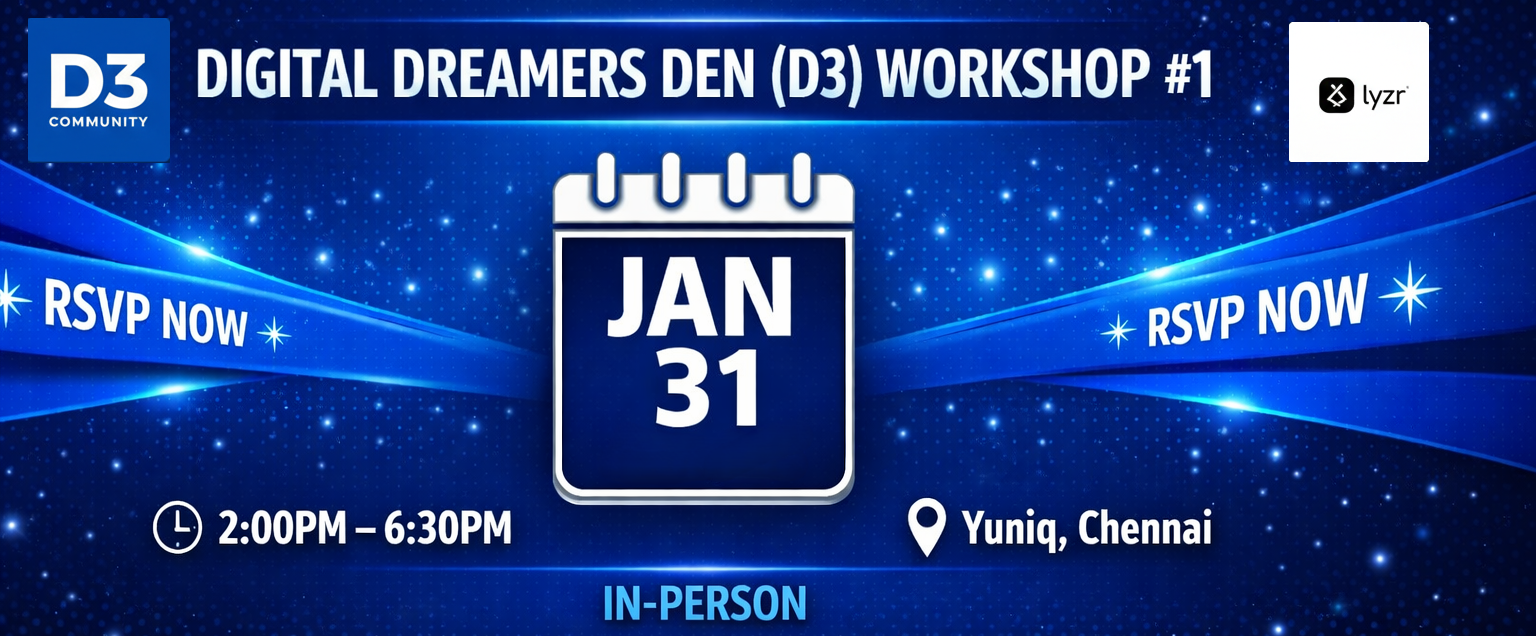
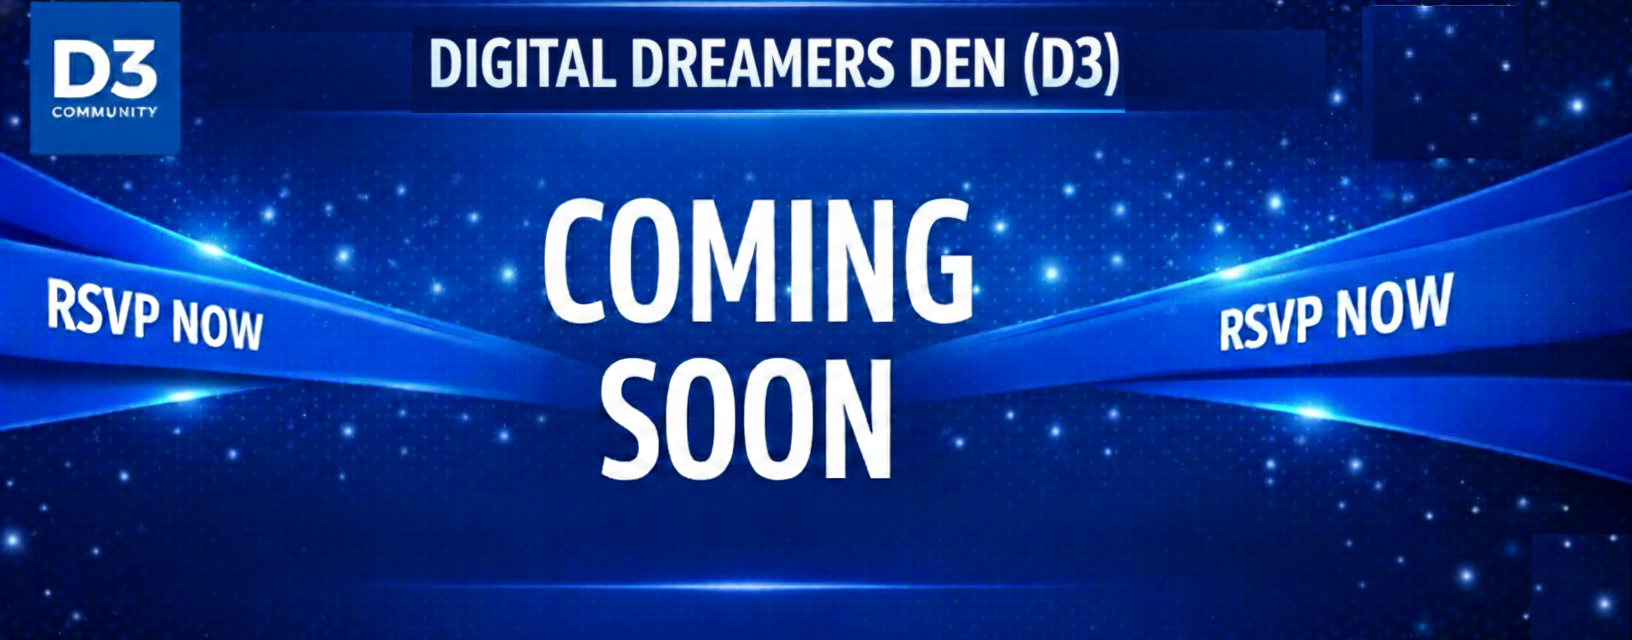
Update RSVP URL for Digital Dreamers Den workshop and replace coming soon image

diff --git a/app/data/events.ts b/app/data/events.ts
@@ -95,7 +95,7 @@ const eventsData: EventsData = {
       title: "Digital Dreamers Den (D3) X Lyzr Workshop #1",
       description: "Agentic AI Workshop",
       status: "upcoming",
-      rsvpUrl: "https://luma.com/ja7nn7ao",
+      rsvpUrl: "https://luma.com/9bi67aqa",
       venue: "Yuniq, Chennai",
       image: "/events/comingsoon.png"
     }
